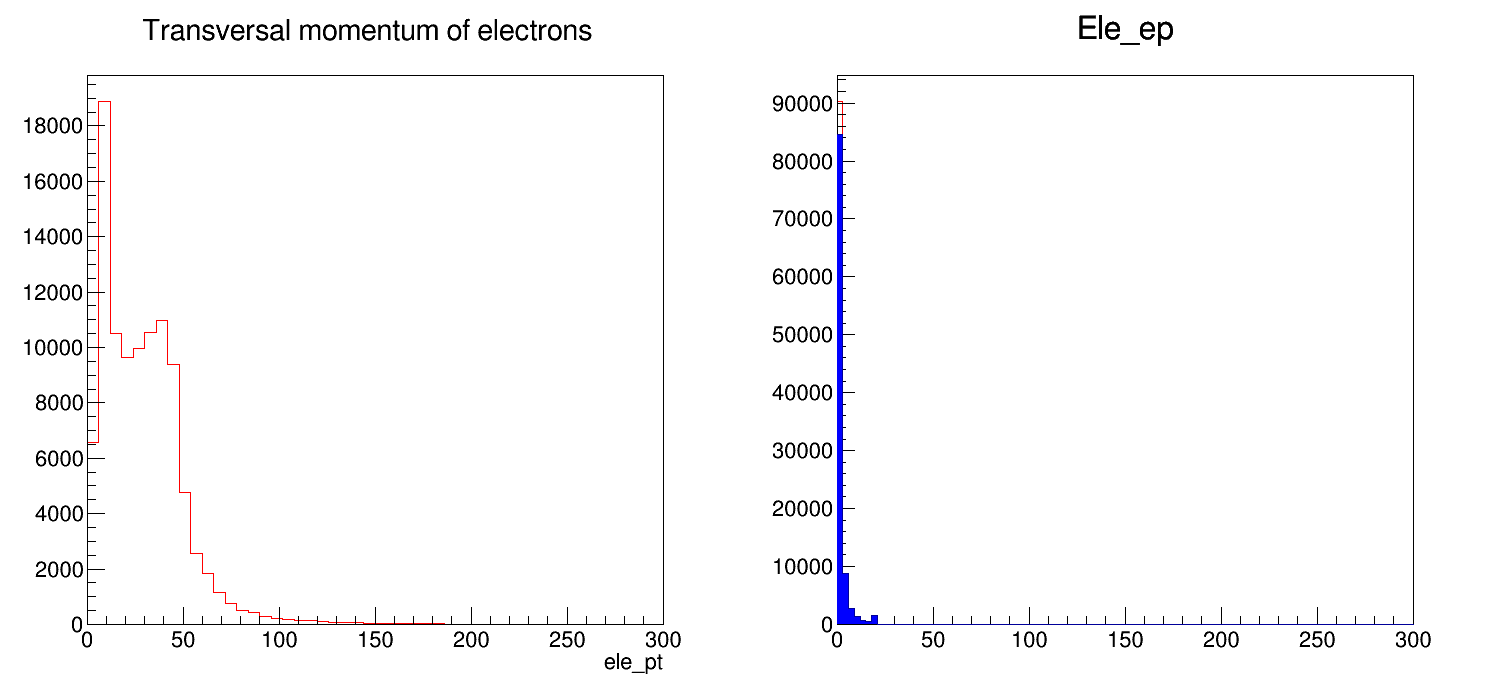
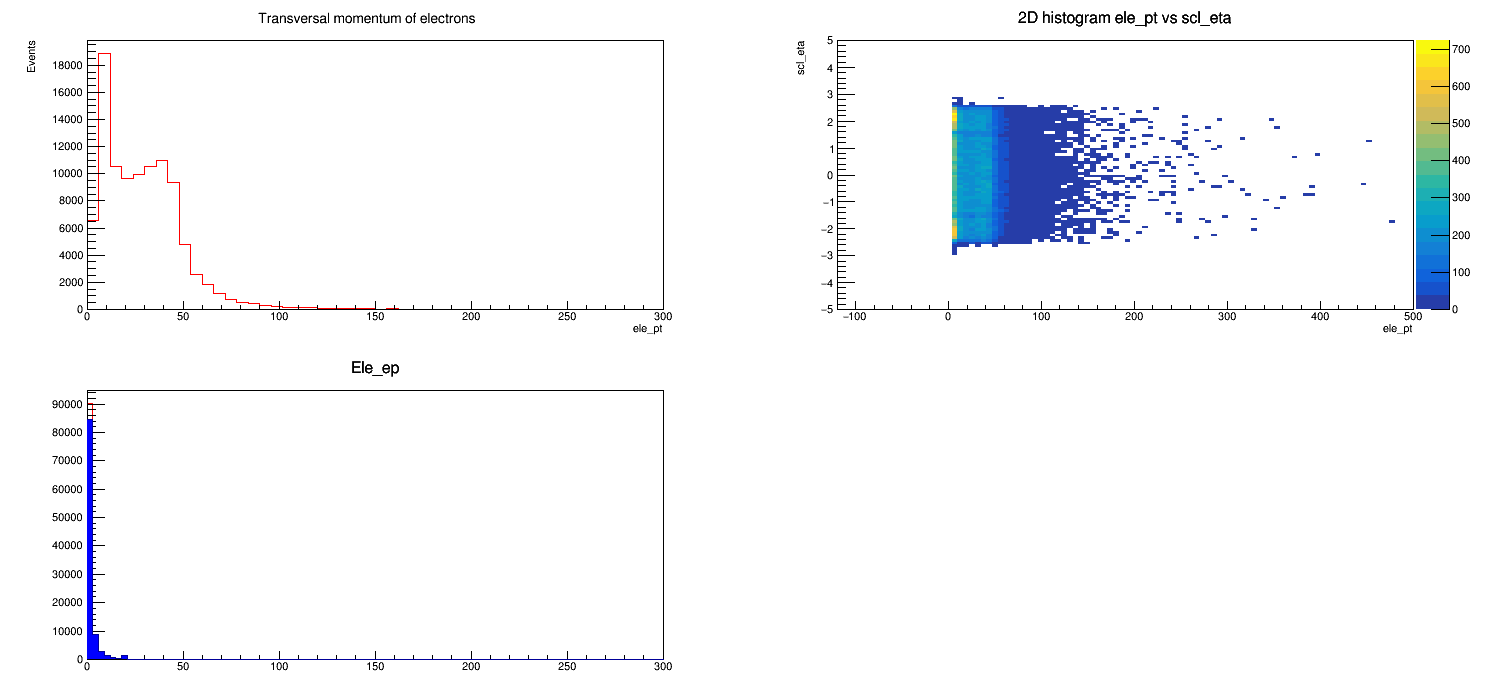
nes

diff --git a/kolpr/z2/Analyzer.cpp b/kolpr/z2/Analyzer.cpp
@@ -67,7 +67,7 @@ if (fChain == 0) return;
   gStyle->SetOptStat(0);
 TCanvas* canvas = new TCanvas();
   canvas->SetCanvasSize(1500, 700);
-canvas->Divide(2,1);
+canvas->Divide(2,2);
 canvas->cd(1);
 	h1->Draw("HISTO");
 	h1->GetXaxis()->SetTitle("ele_pt");
